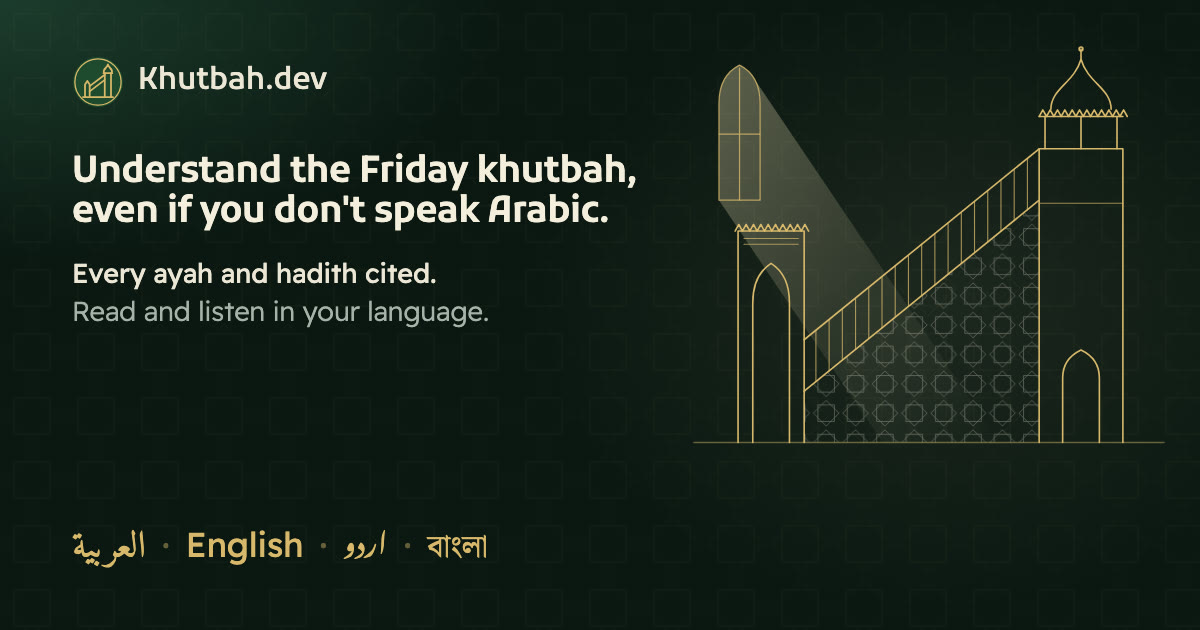
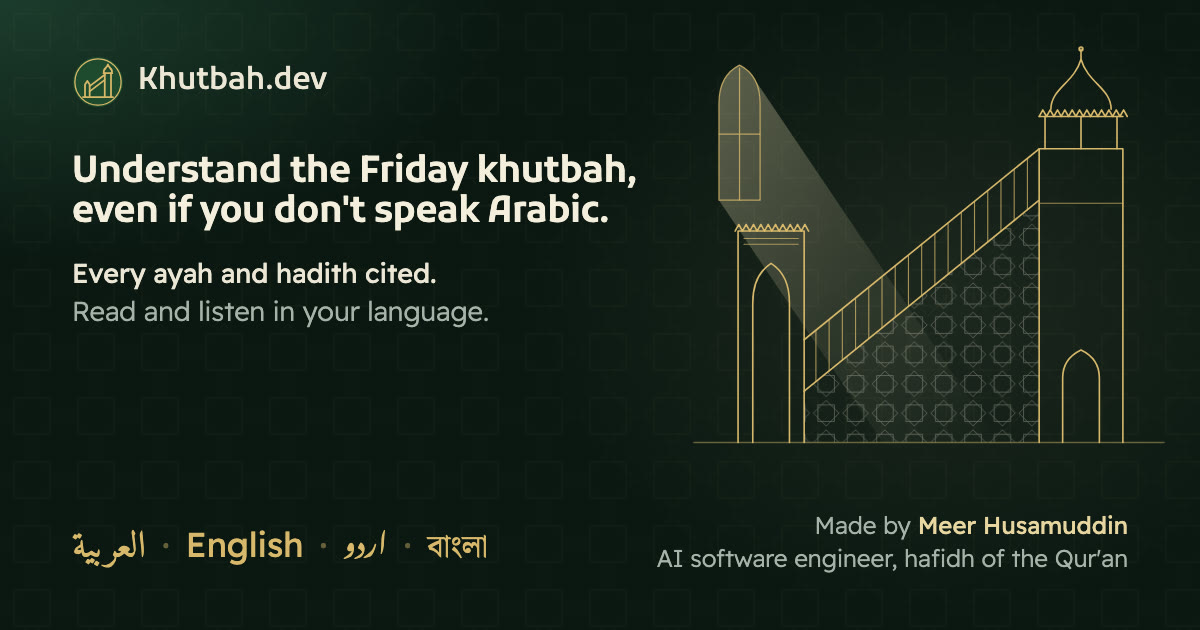
Link preview cards say who made them again (Meer): 'Made by Meer Husamuddin, AI software engineer, hafidh of the Qur'an' under the minbar, as on the card before the redesign
Claude-Session: https://claude.ai/code/session_01V3f4epxxwDaRi5D8tz14Pw

Changed region(s): [[0.555, 0.8143, 0.9558, 0.9048]]

diff --git a/scripts/og_image.js b/scripts/og_image.js
@@ -1,5 +1,6 @@
 // og_image.js — The picture a shared link shows (WhatsApp, iMessage, Telegram…), in the site's look (12 Oct 2026):
-// the khutbah's title, its date (with the Hijri date) and masjid, its languages in gold, beside the gold minbar.
+// the khutbah's title, its date (with the Hijri date) and masjid, its languages in gold, beside the gold minbar, and
+// who made it (Meer Husamuddin).
 // Most visitors arrive through a link shared on WhatsApp, so this card is the first thing they see.
 // Drawn by the Mac's Chrome (headless screenshot) and saved as a JPEG of 1200 × 630.
 //
@@ -49,6 +50,9 @@ function cardHtml({ title, date = '', masjid = '', langs = ['en', 'ur', 'bn'], h
   .tongues [lang="ar"] { font-family: Amiri, serif; font-size: 1.1em; }
   .tongues [lang="ur"] { font-family: "Noto Nastaliq Urdu", serif; font-size: .9em; line-height: 1.3; }
   .tongues [lang="bn"] { font-family: "Noto Serif Bengali", serif; font-size: .92em; }
+  /* who made it, under the minbar (as on the card before the redesign; Meer) */
+  .by { position: absolute; right: 72px; bottom: 54px; text-align: right; font-size: 24px; line-height: 1.4; color: #A6B3AA; }
+  .by b { font-weight: 400; color: #E8D5A0; }
 </style></head><body>
 <div class="glow"></div><div class="lattice"></div>
 <div class="minbar-box">${MINBAR.replace(/ role="img" aria-label="[^"]*"/, '').replaceAll('stop-color="var(--light)"', 'stop-color="#F8E9BC"')}</div>
@@ -59,6 +63,7 @@ function cardHtml({ title, date = '', masjid = '', langs = ['en', 'ur', 'bn'], h
     : `<p class="meta">${esc(date)}${hijri ? ` · <span class="hijri">${hijri}</span>` : ''}${masjid ? `<b>${esc(masjid)}</b>` : ''}</p>`}
   <p class="tongues">${tongues}</p>
 </div>
+<p class="by">Made by <b>Meer Husamuddin</b><br>AI software engineer, hafidh of the Qur'an</p>
 <script>
   // a long title steps down until it fits in three lines
   document.fonts.ready.then(() => { const h = document.getElementById('t'); let s = 64; while (h.scrollHeight > h.clientHeight + 2 && s > 36) { s -= 2; h.style.fontSize = s + 'px'; } if (h.getBoundingClientRect().height > 3 * s * 1.1 + 4) { h.style.fontSize = (s = Math.max(36, s - 6)) + 'px'; } document.title = 'ready'; });
